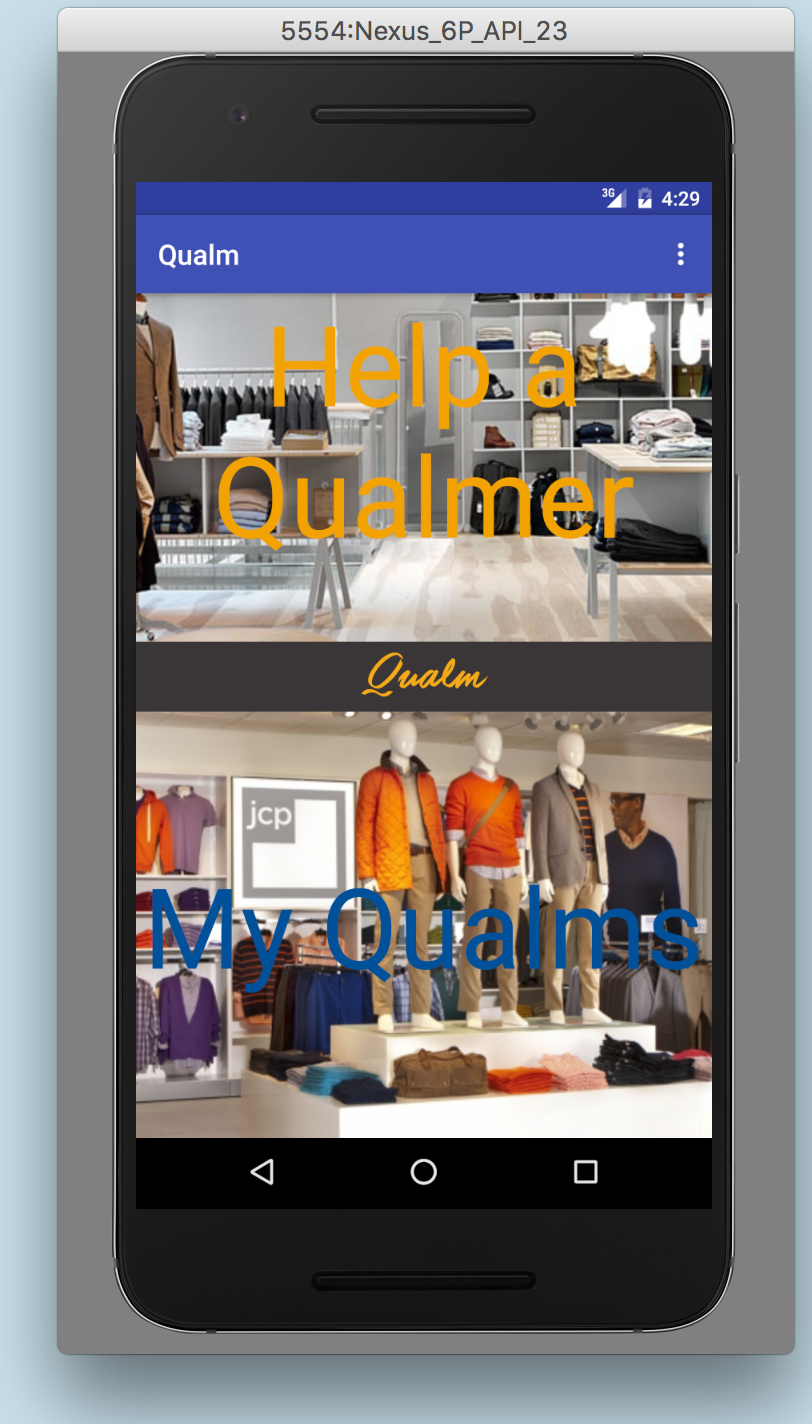
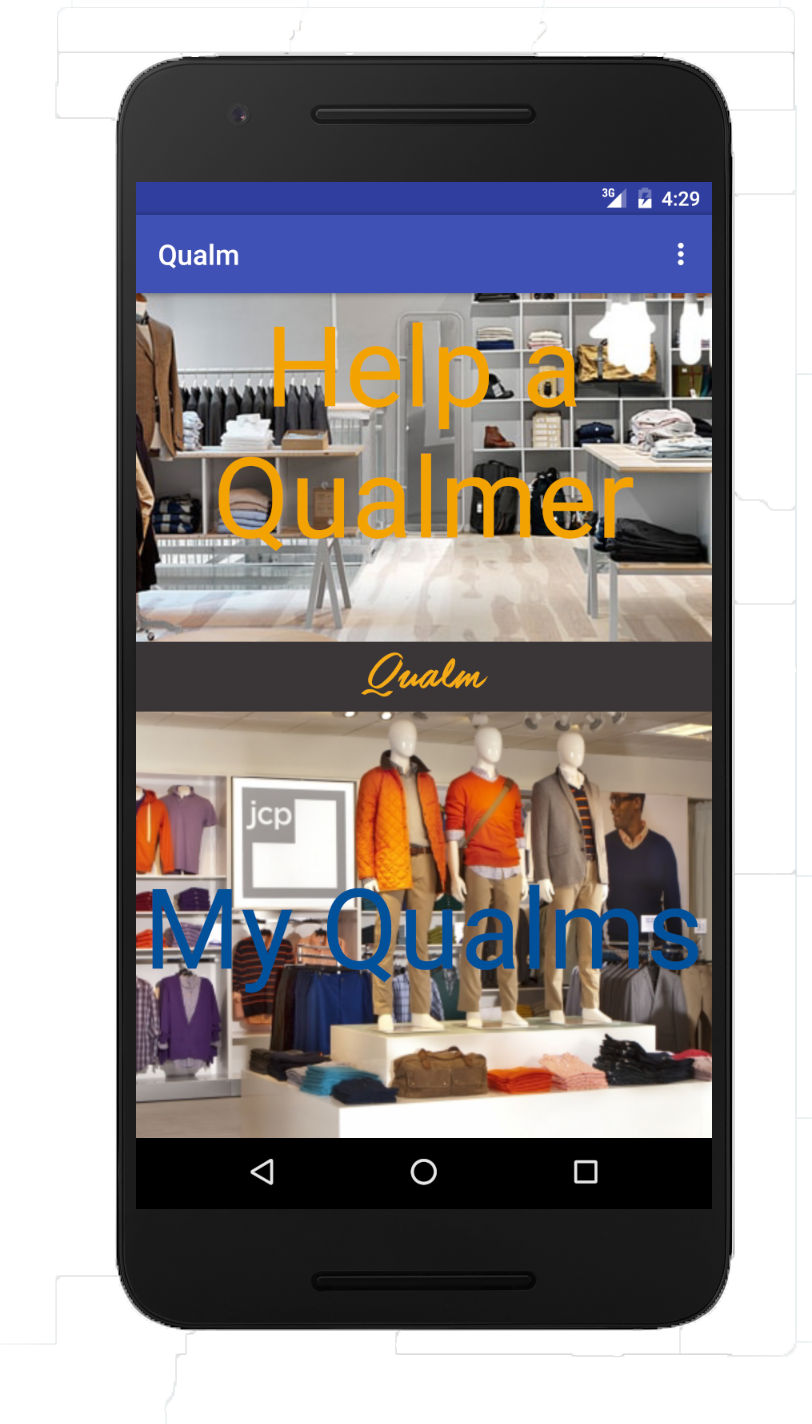
added photoshop pic

diff --git a/index.html b/index.html
@@ -47,7 +47,7 @@
           <p class='howTo text-center'>Voters can browse all available qualms randomly or by category and submit their choices by means of a vote</p>
         </div>
         <div class="col-sm-4">
-          <img src="./public/images/Qualm.png">
+          <img src="./public/images/xxx.png">
         </div>
       </div>
 

diff --git a/css/main.css b/css/main.css
@@ -53,7 +53,7 @@ a {
 body{
   font-family: "Open Sans", "Alef Hebrew", helvetica, sans-serif;
   font-weight: lighter;
-  background-color: #808080;
+  background-color: #fff;
 }
 h1{
   color: #FFBC2F;
